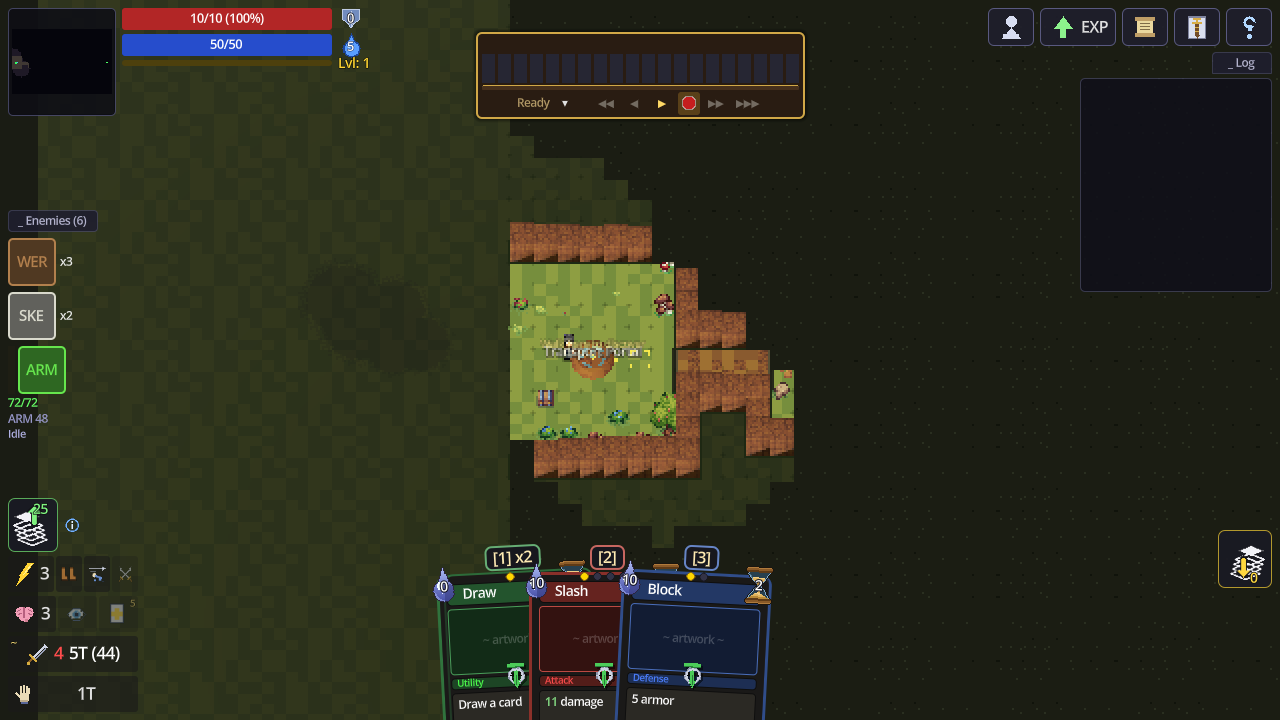
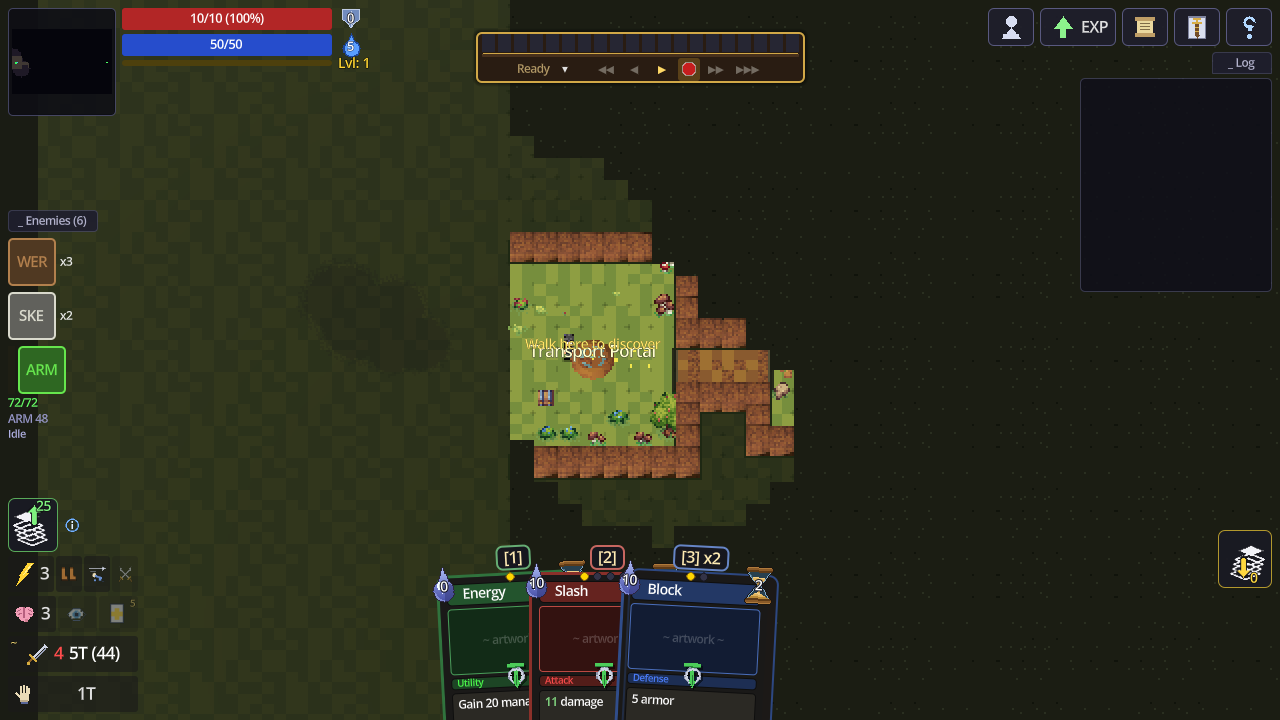
Per-pixel depth for sprites and props, lower walls, crisp world text, slimmer tempo bar
Sorting: every billboard now writes depth through a hard alpha cut
(ALPHA_CUT_DISCARD on Sprite3D, TRANSPARENCY_ALPHA_SCISSOR on the prop
MultiMesh materials). Blended sprites sorted by node origin, and a whole
MultiMesh of stones sorted as one object, so the scenery either buried the
character or sat under them; depth resolves it per pixel. The pack art has
no semi-transparent texels, so nothing is lost to the cut.

Walls drop to about one tile of face (natural 0.9-1.25, buildings 1.25,
plus elevation) so a character just north of a wall shows from the
shoulders up instead of vanishing behind it.

World text: WorldLabelOverlay mirrors every Label3D with a
full-resolution UI Label that follows its screen position each frame; the
Label3D is hidden from the cameras but stays the source of truth. Text
rendered inside the half-res world viewport was smeared 2x.

Tempo tracker: shorter tick books, tighter frame, and the card-name line
only takes height while a card is queued.

Claude-Session: https://claude.ai/code/session_015tgbwaAhcMDCx3nBpGq8fo

diff --git a/docs/STYLE_GUIDE.md b/docs/STYLE_GUIDE.md
@@ -39,6 +39,12 @@ conforms to them.
   texels at every zoom while staying legible. (Flagged in OPEN_QUESTIONS.md —
   one constant to change.)
 - UI renders outside the viewport at window resolution (1280×720 base).
+  So does **world text**: every `Label3D` is mirrored by a full-resolution
+  `Label` in `WorldLabelOverlay` that follows its screen position each
+  frame (the Label3D itself is hidden from the cameras with `layers = 0`
+  but stays the source of truth for text, colour and visibility). Text
+  rendered inside the half-res world was smeared 2× — never put text in
+  the world viewport.
 - Sprite texel density: **`PIXEL_SIZE = 0.034`** world units per texel for
   every billboard (party, enemies, overlays). No per-entity scale factors —
   bigger creatures get bigger *art* or an integer-ish rig scale, never a
@@ -105,6 +111,18 @@ conforms to them.
   art's ground row at the node origin; prop `QuadMesh`es use a
   `center_offset` of half their height; critters do the same. The ground
   row then stays glued to the tile (and the blob shadow) at the fixed pitch.
+- **Depth, not draw order.** Every billboard — party, enemies, props,
+  chests, critters — uses a hard alpha cut (`ALPHA_CUT_DISCARD` on
+  `Sprite3D`, `TRANSPARENCY_ALPHA_SCISSOR` on prop MultiMesh materials) so it
+  writes depth and sorts per pixel against walls and each other. Pixel art
+  has no soft edges to lose, and blended sprites sort by node origin (a
+  whole MultiMesh of stones as one object), which is what buried the player
+  under the scenery. Only true translucency (blob shadows, fog, portals,
+  water film) stays alpha-blended.
+- Walls are ~one tile of face (natural 0.9–1.25, buildings 1.25 units, plus
+  elevation): tall enough to read as a wall at -65°, low enough that a
+  character just north of one still shows from the shoulders up — the
+  proportion the 16px pack wall faces are drawn at.
 - MonsterKit flyer cells (bee, hawk, bat, carpet, sword) have painted shadows
   in-art — those kinds skip the shadow node (no doubles). Craftpix character
   packs ship every sheet twice; always use `Without_shadow/` and let the blob
